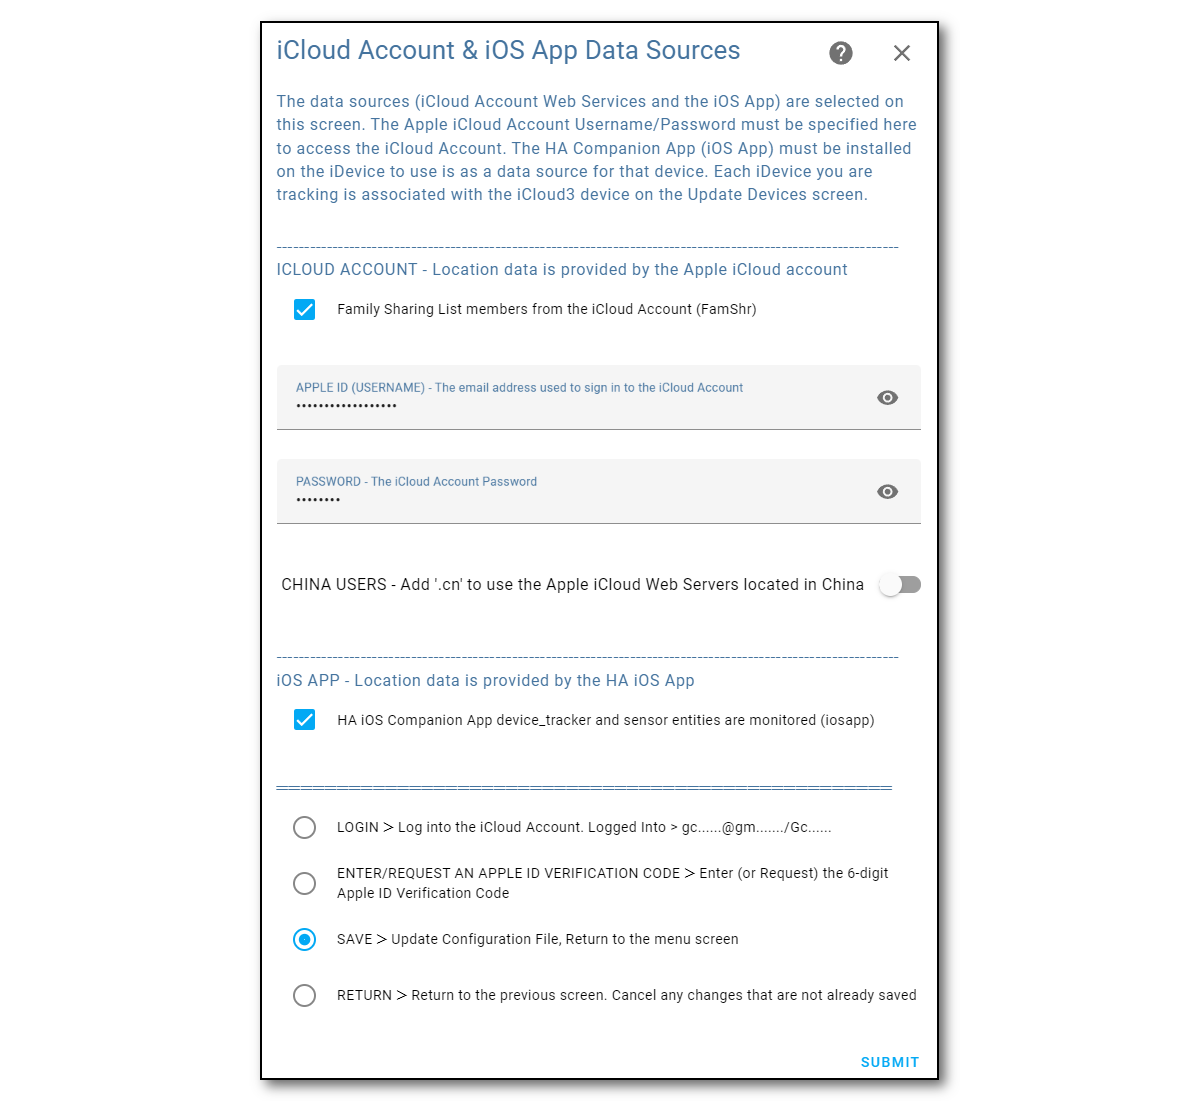
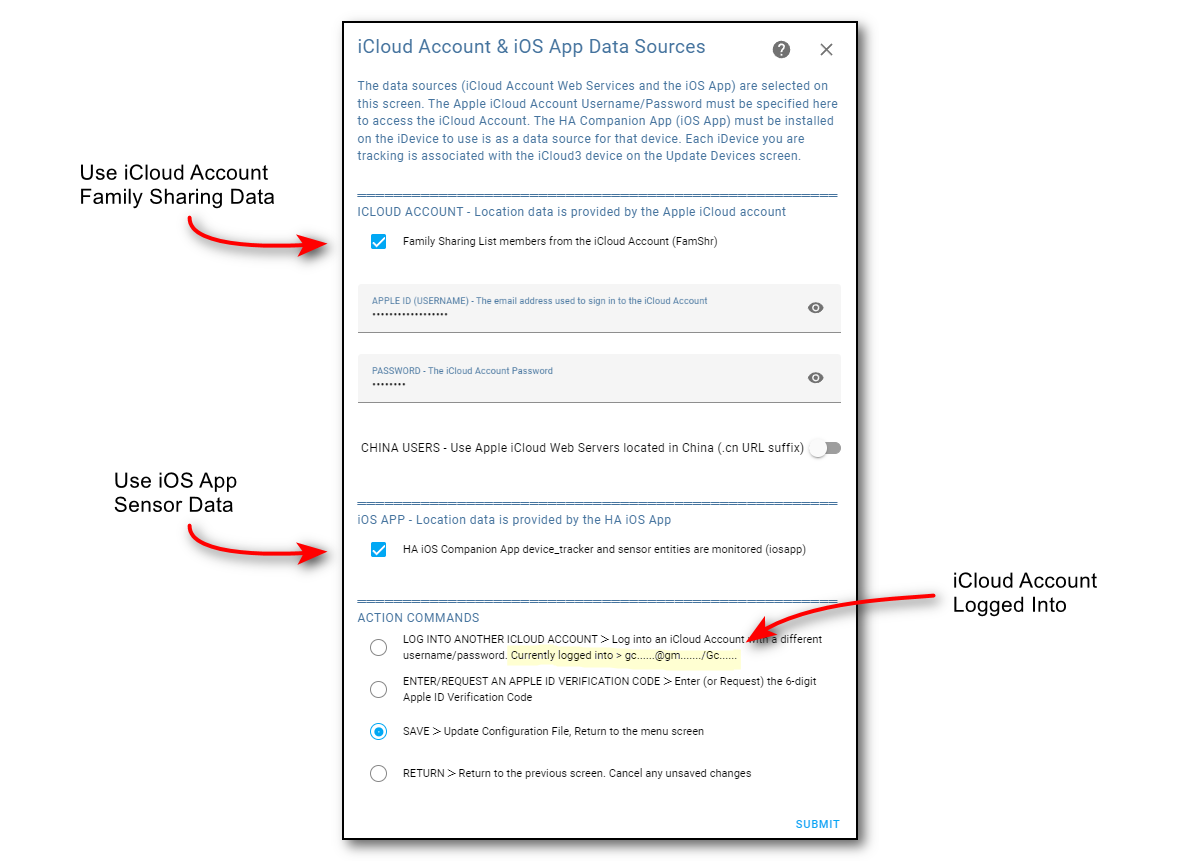
v3 Docs

Changed region(s): [[0.0617, 0.0, 0.925, 0.9965], [0.2467, 0.4228, 0.4625, 0.4832]]

diff --git a/docs/chapters/2.1-icloud-account.md b/docs/chapters/2.1-icloud-account.md
@@ -1,65 +1,69 @@
-#  Location Data - iCloud Account & iOS App
+##  iCloud Account Family Sharing (FamShr) Devices  <!-- {docsify-ignore} -->
 
-iCloud3 uses location data from the Apple iCloud account and the Home Assistant Companion App.  It requests the location from the iCloud account at a predetermined time based on the the device's location, the distance from the Home or other tracked zone and the travel direction. iCloud3 may also request the location from the iOS App but normally, it monitors location and zone changed sent from the app to Home Assistant. 
-
-This section describes:
-- iCloud Account - Tracking methods providing location data
-- iOS App - Monitored sensors and location update process
-- Tracking Methods - Sources of location data and how they are associated with the iCloud3 device_tracker entity
-  - Family Sharing list devices
-  - FindMy devices
-  - Devices running the iOS App
-
-
-------
-
-### 2.1 Location Data - iCloud Account
-
-The iCloud Account is the primary source of location data. It provides information related to the iPhones, iPads and other devices in the Family Sharing list and sharing their location. 
-
-- Setting up access to the iCloud account (username/password) and authentication (6-digit verification code entry) is described in *Installing and Configuring iCloud3 > Step 5 - Configuring iCloud3*.
+The iCloud Account is the primary source of location data. It provides information related to the iPhones, iPads, Watches  and other devices in the Family Sharing list to iCloud3 devices that are tracked or monitored.. 
 
 > In China, different URLs are used to access the iCloud servers. An option is available on the *iCloud Account* screen.
 
-The two tracking methods that provide location information are:
-
-- **Primary Location Request Method - Family Sharing (FamShr) list member**s - The location of all devices (iPhones, iPads, AirPods, Watches) in the Family Sharing list is provided when a request is made for just one device. iCloud3 takes advantage of this and updates the location of all of the tracked devices. The Apple iCloud account administrator's location is only available using this location request. 
-
-  The selection list below shows the device's name in the *Settings App > General > About*  Name field on the device (Gary-iPhone), the device type (iPhone 14 Pro) and Apple model name (iPhone15,2).
-
-  ![](../images/cf-device-update-famshr.png)
+The iCloud Account is logged into when iCloud3 starts. Apple returns authentication/verification data that is stored in  on the HA server in the *config/.storage/icloud* directory. These *cookie* and *session* files store tokens that are used to access your iCloud account without requesting a 6-digit verification code every time you start iCloud3 or request location data. This is described in detail in *2.3 iCloud Account Access and Authentication*.
 
 
 
 ------
 
-### 2.2 Location Data - Home Assistant Companion App (iOS App)
+### Configuring the iCloud Account
 
-The iOS App can be installed on iPhones and iPads to monitor the device's location and provide zone enter/exit triggers. It will:
+The Apple Account username (email_id) and password is needed to access the iCloud account. This is set up on the *iCloud Account & iOS App* screen in the iCloud Account section at the top of the screen.
 
-- **Issue a Zone Enter/Exit trigger when it enters or exits a zone** - This trigger is immediately received by iCloud3, analyzed and the device's location will be updated. 
-- **Update the device's location** -  iCloud3 monitors the iOS App location data and updates the tracking information. 
+![](../images/cf-data-sources.png)
 
-There may be times when the device is in a zone, an 'out-of-zone' location is received and an Exit trigger had not been sent. This *GPS wandering* event is discarded, preventing zone exit automations from being triggered by Home Assistant. the iCloud3 sensors will remain in an 'in-zone' state while the iOS App sensors have changed to an 'away/not_home' state.
+1. Check the **Family Sharing List members ...** to set enable the iCloud Account as a location data source.
+2. Enter the *Apple ID (Username)* and *Password* for your iCloud account. Click the **Display Icon** at the end of the username and password fields to display their values. 
+3. Select **Login**, then select **Submit**.  The iCloud account will be logged into and the lists of iPhones, iPads and other devices associated with the account will be set up. 
+   - Note: If the account is being setup and logged into for the first time, you will receive a notification on a trusted device (iPhone or iPad) that someone is logging into your iCloud account. Generally, you will allow access and the 6-digit verification code is displayed. The *Apple ID Verification Code* screen is displayed, you enter the code and send it back to Apple. This screen is redisplayed if the code is accepted. Otherwise, error messages are displayed and you will need to enter the code again. See the *iCloud Account Access and Authentication* chapter HERE for more information.
+4. If you were logged in successfully, select **Save** to save the new account username/password and **Submit** to return to the menu. 
 
-- Instructions for installing and configuring the iOS App are in the *Installing and Configuring iCloud3 > Step 2 - Installing the iOS App*.
-- The official documentation for the iOS App (Home Assistant Companion) can be found [here](https://companion.home-assistant.io/).  
+*Notes:*
 
-The iOS App device is assigned to an iCloud3 device on the *iCloud3 Devices > iCloud3 Device Tracker Entities > Update Tracked iCloud3 Device* screen. ![](../images/cf-device-update-iosapp.png)
+- The password is encrypted when it is saved in the configuration file.
+- When iCloud3 starts, you are logged into your Apple iCloud account. The account username/password is shown on the *LOGIN Action* line (gc......@gm......./Gc......).
 
-iCloud3 does not require the iOS App to be installed on an iPhone or iPad. However, if it is not installed, the following happens:
+**China Users** - A different URL is used to access the iCloud Account servers in China (.cn is added to the URL). Enable this field if necessary.
 
-- iCloud3 will not react to a Zone Enter or Exit events until the phone's *Next Update Event* time. This will delay the device entering a zone or exiting from it.
-- Significant location changes will not be available.
-- The device's battery level is not available.
-- Notifications can not be sent to the device.
-- In this case, a short *inZone Interval* will help reduce the time between location updates.
+
+
+#### Changing the iCloud Account
+
+If you want to change to a new iCloud Account, change the username or change password:
+
+1. Enter the new username and new password of the new iCloud Account.
+
+2. Select **Login**, then select **Submit**. Do not select **Save** yet. Go through the verification process first.
+
+   If the login is successful, the Family Sharing List devices are loaded for the new account. Be sure to review each device on the **Update Devices** screen and verify the Family Sharing device for the devices iCloud3 is tracking and monitoring is correct.
+
+3. Select **Save** to save the new account username/password and **Submit** to return to the menu. 
 
 
 
 ------
 
-### 2.3 Tracking an Apple Watch and AirTags
+### Assigning the Family Sharing Device
+
+The Family Share device is assigned on the *Update Tracked iCloud3 Devices* screen. 
+
+1. Select the device to update on the *Devices List* screen.
+
+2. Select the Family Sharing device to be assigned from the Family Sharing Devices list.
+
+   ![](../images/cf-device-update-famshr.png)
+
+3. Select **Save** to save the change and **Submit** to return to the*Devices List* screen.
+
+
+
+------
+
+### Tracking an Apple Watch and AirTags
 
 **Apple Watch** - The iOS App Complication can be installed on the Apple Watch, however:
 
@@ -75,7 +79,7 @@ iCloud3 does not require the iOS App to be installed on an iPhone or iPad. Howev
 
 ------
 
-### 2.4 When a Device is Upgraded (Ex.: iPhone 13 to iPhone 14)
+### Upgrading to a new Device (Ex.: iPhone 13 to iPhone 14)
 
 The FamShr device's name (*Gary iPhone*) selected from the above list is stored in the iCloud3 configuration file. This is used to determine the actual Apple device providing location data when iCloud3 starts.
 
@@ -85,9 +89,9 @@ Several events take place when you upgrade a device, i.e, replace an iPhone 13 P
 - In this example, the name is on the iPhone 13 Pro is *Gary iPhone*. 
 - A new name is assigned to the iPhone 14 Pro, i.e, *Gary iPhone (2)*.
 - The iPhone 14 is assigned a new *device_id* by Apple. This *device_id* is used internally by Apple and you never see it. It is used, however, by iCloud3 to identify the actual device providing location data.
-- The iPhone 13 Pro is removed from the FindMy App and the Apple iCloud account and traded-in or sold.
+- The iPhone 13 Pro is removed from the *FindMy App* and the Apple iCloud account and traded-in or sold.
 
-At this time, iCloud3 is still tracking the *Gary iPhone* iPhone 13 Pro that is no longer on your iCloud account instead of the new iPhone.
+At this time, iCloud3 is still tracking the *Gary iPhone/iPhone 13 Pro* that is no longer on your iCloud account instead of the new iPhone.
 
 **Easy way** - The following steps should be done to make it easier to identify and transfer to the new iPhone:
 
@@ -100,7 +104,7 @@ Since the new iPhone 14 Pro is now the *Gary iPhone* device, it will be now be a
 **Harder way** - You realize that *Gary iPhone* is no longer being tracked because the iPhone is no longer on your Apple iCloud account or it has been wiped and powered off. 
 
 - Restart iCloud3. The Family Sharing list will be rebuilt with the current name.
-  - Select the new iPhone from the Family Sharing list on the *iCloud3 Devices > iCloud3 Device Tracker Entities > Update Tracked iCloud3 Device* screen. 
+  - Select the new iPhone from the Family Sharing list on the *Update Tracked iCloud3 Device* screen. 
   - Restart iCloud3 again. The new iPhone's name will be assigned to the iCloud3 tracked device.
 - Or, 
   - Change the name on the iPhone 14 Pro from *Gary iPhone (2)* to *Gary iPhone*.

diff --git a/docs/chapters/3.2-installing-and-configuring.md b/docs/chapters/3.2-installing-and-configuring.md
@@ -95,7 +95,7 @@ This screen is used to indicate the data sources used for location information (
 2. Select **Login**, then select **Submit**.  The iCloud account will be logged into and the lists of iPhones, iPads and other devices associated with the account will be set up. 
 3. Select **Save**, then select **Submit** to return to the menu.
 
-![](../images/cf-acct-login.png)
+![](../images/cf-data-sources.png)
 
 *Notes*:
 1. When iCloud3 starts, you are logged into your Apple iCloud account. The account username/password is shown on the *LOGIN Action* line (gc......@gm......./Gc......).
@@ -103,7 +103,7 @@ This screen is used to indicate the data sources used for location information (
 3. The username and password are not required if you are only tracking with the iOS App,
 4. Apple account authentication - If you are signing into the Apple iCloud Account for the first time, the account access token has expired or your account username or password has changed and you will get an alert on your phone or other device that someone is signing into your Apple account. 
    1. Select **Allow** on your phone or other trusted device, the screen showing the 6-digit verification code is displayed
-   2. The code entry form below should display on your computer. If it does not, select *Enter Verification Code*, then select Submit.
+   2. The code entry form below should display on your computer. If it does not, select *Enter Verification Code*, then select Submit.When iCloud3 starts, you are logged into your Apple iCloud account. The account username/password is shown on the *LOGIN Action* line (gc......@gm......./Gc......).
    3. From time-to-time, you will have to reauthenticate iCloud3's access to your Apple iCloud account. This is discussed later. 
    4. Enter the 6-digit verification code, then select *Submit*.
 

diff --git a/docs/chapters/0.3-index.md b/docs/chapters/0.3-index.md
@@ -15,7 +15,7 @@
 #### Location Data Providers  {docsify-ignore}
 - [2.1 iCloud Account Family Sharng Devices](chapters/2.1-icloud-account.md)
 - [2.2 iOS App Moitoring (HA Mobile App)](chapters/2.3-ios-app.md)
-- [2.3 iCloud Account Access Authentication](chapters/2.2-apple-id-verification.md)
+- [2.3 iCloud Account Access and Authentication](chapters/2.2-apple-id-verification.md)
 
 ------
 #### Installing iCloud3  {docsify-ignore}

diff --git a/docs/_sidebar.md b/docs/_sidebar.md
@@ -2,7 +2,7 @@
   <table style="padding: 10px 0px 5px 20px;">
     <tr>
       <td>
-        <a href="https://github.com/gcobb321/icloud3_v3" class="button-base">Github</a>
+        <a href="https://github.com/gcobb321/icloud3_v3" class="button-base">GitHub</a>
       </td>
       <td>
         <a href="https://github.com/gcobb321/icloud3_v3/releases" class="button-base">Download</a>
